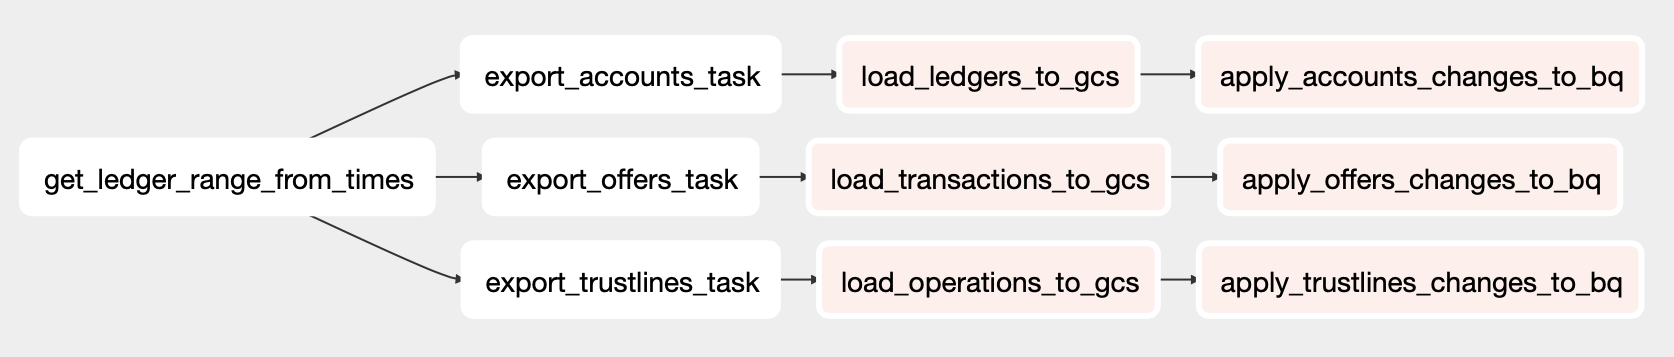
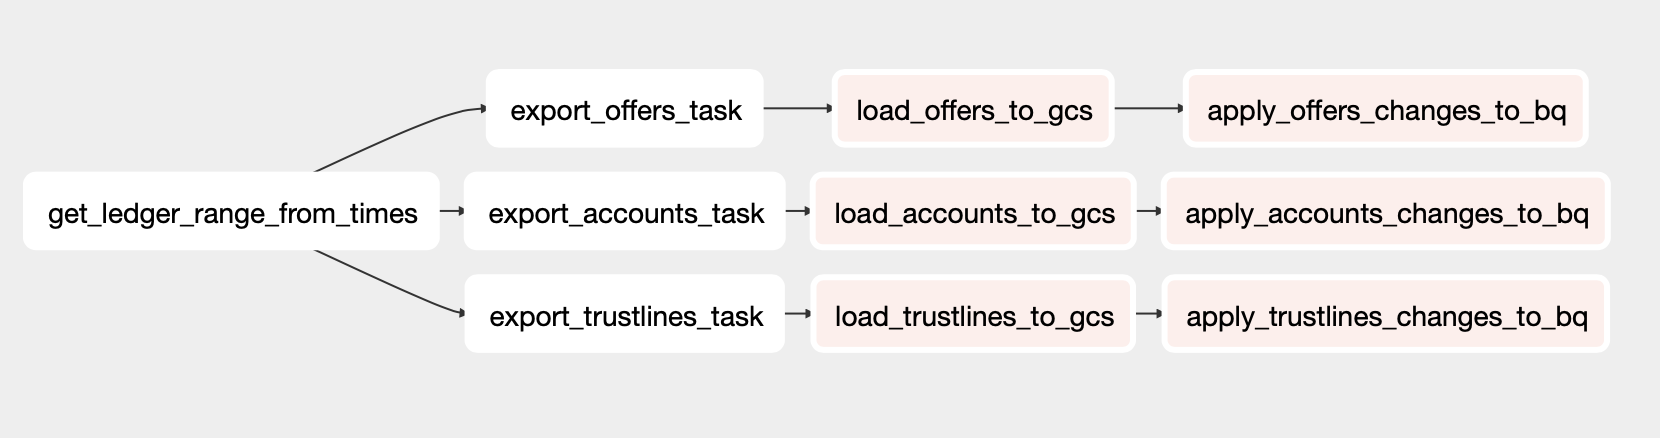
Fixed names for bucket list tasks (#57)
* Fixed names for bucket list tasks

* Fixed bucket list image

diff --git a/dags/bucket_list_dag.py b/dags/bucket_list_dag.py
@@ -35,9 +35,9 @@ The load tasks receive the location of the exported file through Airflow's XCOM 
 Then, the task loads the file into Google Cloud Storage. Finally, the file is deleted
 from local storage.
 '''
-load_acc_task = build_load_task(dag, 'ledgers', 'export_ledgers_task')
-load_off_task = build_load_task(dag, 'transactions', 'export_transactions_task')
-load_trust_task = build_load_task(dag, 'operations', 'export_operations_task')
+load_acc_task = build_load_task(dag, 'accounts', 'export_accounts_task')
+load_off_task = build_load_task(dag, 'offers', 'export_offers_task')
+load_trust_task = build_load_task(dag, 'trustlines', 'export_trustlines_task')
 
 '''
 The apply tasks receive the location of the file in Google Cloud storage through Airflow's XCOM system.
